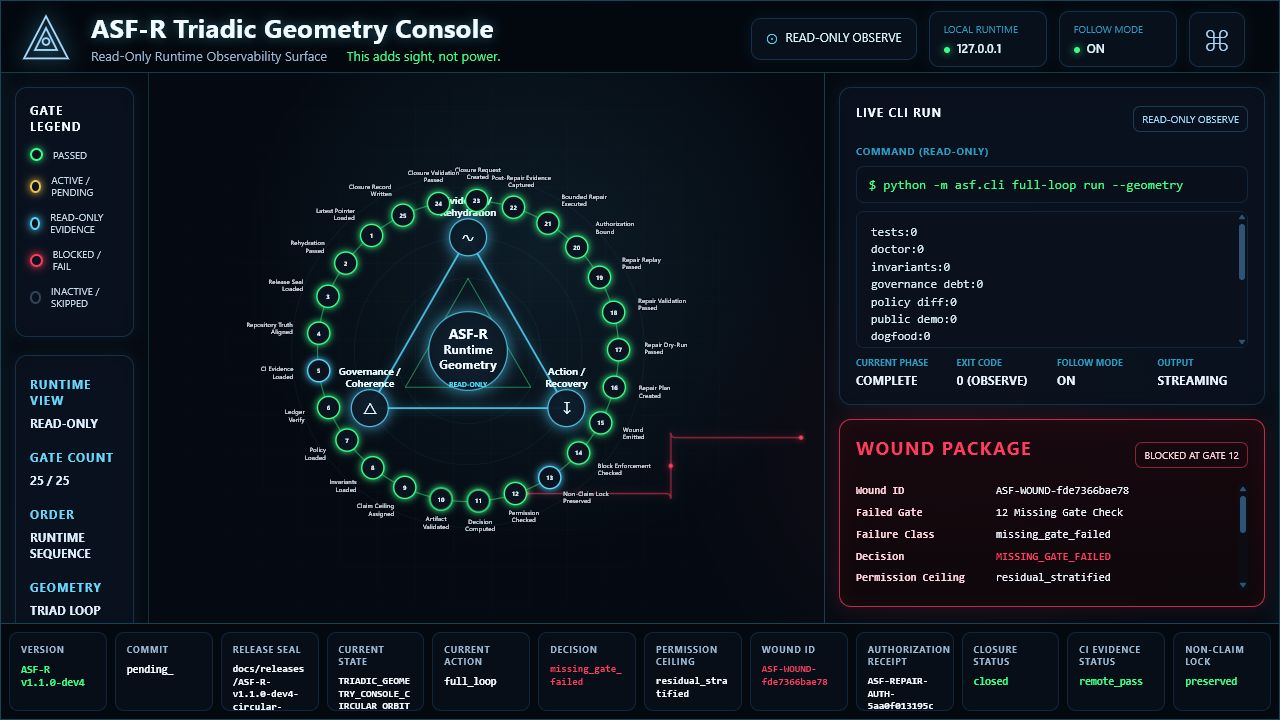
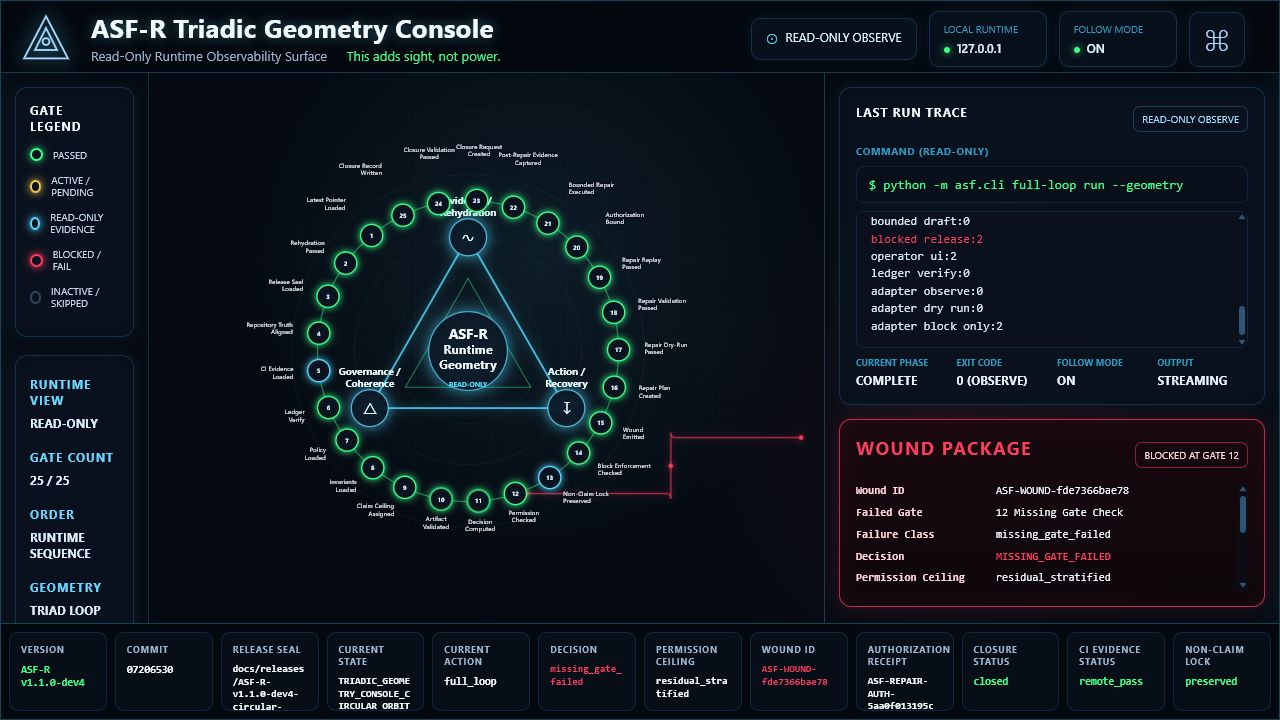
Add geometry run trace panel states

diff --git a/asf/ui/web/app.js b/asf/ui/web/app.js
@@ -15,6 +15,8 @@ function renderState(state) {
 }
 
 function renderCli(panel) {
+  const panelTitle = document.getElementById("cli-panel-title");
+  if (panelTitle) panelTitle.textContent = panel.title || "LIVE CLI RUN";
   document.getElementById("command-line").textContent = `$ ${panel.command}`;
   document.getElementById("metric-phase").textContent = panel.phase;
   document.getElementById("metric-exit").textContent = `${panel.exit_code} (observe)`;

diff --git a/asf/ui/web/index.html b/asf/ui/web/index.html
@@ -59,7 +59,7 @@
         <aside class="right-rail">
           <section class="panel cli-panel">
             <div class="panel-head">
-              <h2>Live CLI Run</h2>
+              <h2 id="cli-panel-title">LIVE CLI RUN</h2>
               <span>READ-ONLY OBSERVE</span>
             </div>
             <div class="command-label">COMMAND (READ-ONLY)</div>

diff --git a/tests/test_triadic_geometry_console.py b/tests/test_triadic_geometry_console.py
@@ -9,7 +9,7 @@ from urllib.error import HTTPError
 from urllib.request import Request, urlopen
 
 from asf.ui.geometry.app import GeometryHandler, geometry_events
-from asf.ui.geometry.gate_mapper import KNOWN_STATUSES, build_geometry_state, map_gates
+from asf.ui.geometry.gate_mapper import KNOWN_STATUSES, build_geometry_state, cli_panel, map_gates
 from asf.ui.geometry.schemas import NON_CLAIM_LOCK, READ_ONLY_UI_LAW
 
 
@@ -96,6 +96,28 @@ class TriadicGeometryConsoleTests(unittest.TestCase):
         panel = build_geometry_state(ROOT, SAMPLE_SUMMARY).cli_panel
         self.assertEqual(panel["mode"], "read_only_observe")
         self.assertEqual(panel["command"], "python -m asf.cli dogfood run")
+        self.assertEqual(panel["title"], "LAST RUN TRACE")
+        self.assertEqual(panel["panel_state"], "last_run_trace")
+
+    def test_cli_panel_live_when_run_is_active(self):
+        panel = cli_panel({"phase": "running", "exit_code": None, "stream": ["active event"]})
+        self.assertEqual(panel["title"], "LIVE CLI RUN")
+        self.assertEqual(panel["panel_state"], "active_run")
+        self.assertTrue(panel["follow"])
+        self.assertEqual(panel["stream"], ["active event"])
+
+    def test_cli_panel_last_trace_when_run_is_complete(self):
+        panel = cli_panel({"phase": "complete", "exit_code": 0, "stream": ["final event"]})
+        self.assertEqual(panel["title"], "LAST RUN TRACE")
+        self.assertEqual(panel["panel_state"], "last_run_trace")
+        self.assertEqual(panel["stream"], ["final event"])
+
+    def test_cli_panel_waits_when_no_run_exists(self):
+        panel = cli_panel({})
+        self.assertEqual(panel["title"], "NO ACTIVE RUN")
+        self.assertEqual(panel["panel_state"], "no_active_run")
+        self.assertEqual(panel["phase"], "waiting")
+        self.assertIn("waiting", panel["stream"][0])
 
     def test_map_gates_marks_wound_emitted(self):
         gates = map_gates(ROOT, {"remote_url": "x", "remote_ci_status": "remote_pass", "non_claim_lock": "x"}, {"non_claim_lock": "x"}, SAMPLE_SUMMARY)
@@ -179,7 +201,8 @@ class TriadicGeometryConsoleTests(unittest.TestCase):
 
     def test_ui_contains_live_cli_panel(self):
         html = (ROOT / "asf" / "ui" / "web" / "index.html").read_text(encoding="utf-8")
-        self.assertIn("Live CLI Run", html)
+        self.assertIn("cli-panel-title", html)
+        self.assertIn("LIVE CLI RUN", html)
         self.assertIn("COMMAND (READ-ONLY)", html)
 
     def test_ui_contains_wound_package_panel(self):
@@ -219,6 +242,17 @@ class TriadicGeometryConsoleTests(unittest.TestCase):
             with urlopen(base + "/state.json", timeout=5) as response:
                 data = json.loads(response.read().decode("utf-8"))
             self.assertEqual(data["schema"], "ASF-TRIADIC-GEOMETRY-STATE-v0.1")
+        finally:
+            server.shutdown()
+            thread.join(timeout=5)
+
+    def test_geometry_server_serves_cache_busted_index(self):
+        server, thread, base = start_geometry_server()
+        try:
+            with urlopen(base + "/?v=test", timeout=5) as response:
+                html = response.read().decode("utf-8")
+            self.assertIn("ASF-R Triadic Geometry Console", html)
+            self.assertIn("cli-panel-title", html)
         finally:
             server.shutdown()
             thread.join(timeout=5)

diff --git a/asf/ui/geometry/gate_mapper.py b/asf/ui/geometry/gate_mapper.py
@@ -219,27 +219,34 @@ def wound_panel(wound: dict[str, Any], decision: dict[str, Any]) -> dict[str, An
 
 
 def cli_panel(summary: dict[str, Any]) -> dict[str, Any]:
-    stream = summary.get("stream") or [
-        "12:34:10.128 [INIT] Runtime initialized (read-only)",
-        "12:34:10.246 [GATE 01] Latest Pointer Loaded ............... PASS",
-        "12:34:10.312 [GATE 02] Rehydration Passed .................. PASS",
-        "12:34:10.481 [GATE 07] Policy Loaded ....................... PASS",
-        "12:34:10.612 [GATE 11] Decision Computed ................... PASS",
-        "12:34:10.733 [GATE 12] Permission Checked .................. BLOCKED",
-        "12:34:10.734 [DECISION] Blocked by Permission Ceiling",
-        "12:34:10.735 [GATE 15] Wound Emitted ....................... PASS",
-        "12:34:11.492 [GATE 19] Repair Replay Passed ................ PASS",
-        "12:34:11.713 [GATE 24] Closure Validation Passed ............ PASS",
-        "12:34:11.822 [END] Full-loop run complete (observe only)",
-    ]
+    panel_state = cli_panel_state(summary)
+    titles = {
+        "active_run": "LIVE CLI RUN",
+        "last_run_trace": "LAST RUN TRACE",
+        "no_active_run": "NO ACTIVE RUN",
+    }
+    stream = summary.get("stream") or []
+    if panel_state == "no_active_run":
+        stream = ["waiting for full-loop run..."]
     return {
+        "title": titles[panel_state],
+        "panel_state": panel_state,
         "command": summary.get("command", "python -m asf.cli full-loop run --geometry"),
-        "phase": summary.get("phase", "inspection"),
+        "phase": summary.get("phase", "waiting" if panel_state == "no_active_run" else "complete"),
         "exit_code": summary.get("exit_code", "none"),
-        "follow": summary.get("follow", False),
+        "follow": summary.get("follow", panel_state == "active_run"),
         "mode": "read_only_observe",
         "stream": stream,
     }
+
+
+def cli_panel_state(summary: dict[str, Any]) -> str:
+    if not summary:
+        return "no_active_run"
+    exit_code = summary.get("exit_code")
+    if summary.get("phase") == "complete" or exit_code not in (None, "", "none"):
+        return "last_run_trace"
+    return "active_run"
 
 
 def gate_angle(gate_id: int) -> float:

diff --git a/asf/ui/geometry/app.py b/asf/ui/geometry/app.py
@@ -4,6 +4,7 @@ import json
 import time
 from http.server import SimpleHTTPRequestHandler, ThreadingHTTPServer
 from pathlib import Path
+from urllib.parse import urlsplit
 
 from asf.ui.geometry.gate_mapper import build_geometry_state
 
@@ -62,7 +63,16 @@ class GeometryHandler(SimpleHTTPRequestHandler):
     web_root = Path(__file__).resolve().parents[1] / "web"
 
     def do_GET(self) -> None:
-        if self.path == "/state.json":
+        path = urlsplit(self.path).path
+        if path in {"", "/"}:
+            payload = (self.web_root / "index.html").read_bytes()
+            self.send_response(200)
+            self.send_header("Content-Type", "text/html; charset=utf-8")
+            self.send_header("Content-Length", str(len(payload)))
+            self.end_headers()
+            self.wfile.write(payload)
+            return
+        if path == "/state.json":
             payload = json.dumps(build_geometry_state(self.repo_root).as_dict(), indent=2).encode("utf-8")
             self.send_response(200)
             self.send_header("Content-Type", "application/json")
@@ -70,7 +80,7 @@ class GeometryHandler(SimpleHTTPRequestHandler):
             self.end_headers()
             self.wfile.write(payload)
             return
-        if self.path == "/events":
+        if path == "/events":
             self.send_response(200)
             self.send_header("Content-Type", "text/event-stream")
             self.send_header("Cache-Control", "no-cache")
@@ -90,7 +100,7 @@ class GeometryHandler(SimpleHTTPRequestHandler):
         self.end_headers()
 
     def translate_path(self, path: str) -> str:
-        relative = path.lstrip("/") or "index.html"
+        relative = urlsplit(path).path.lstrip("/") or "index.html"
         return str((self.web_root / relative).resolve())
 
 

diff --git a/tests/test_v092_v10_packaging.py b/tests/test_v092_v10_packaging.py
@@ -151,7 +151,7 @@ class V10PackagingTests(unittest.TestCase):
 
     def test_workflow_ci_evidence_uses_release_candidate_test_count(self):
         workflow = (ROOT / ".github" / "workflows" / "asf-guard.yml").read_text(encoding="utf-8")
-        self.assertIn("--test-count 312", workflow)
+        self.assertIn("--test-count 316", workflow)
 
 
 if __name__ == "__main__":